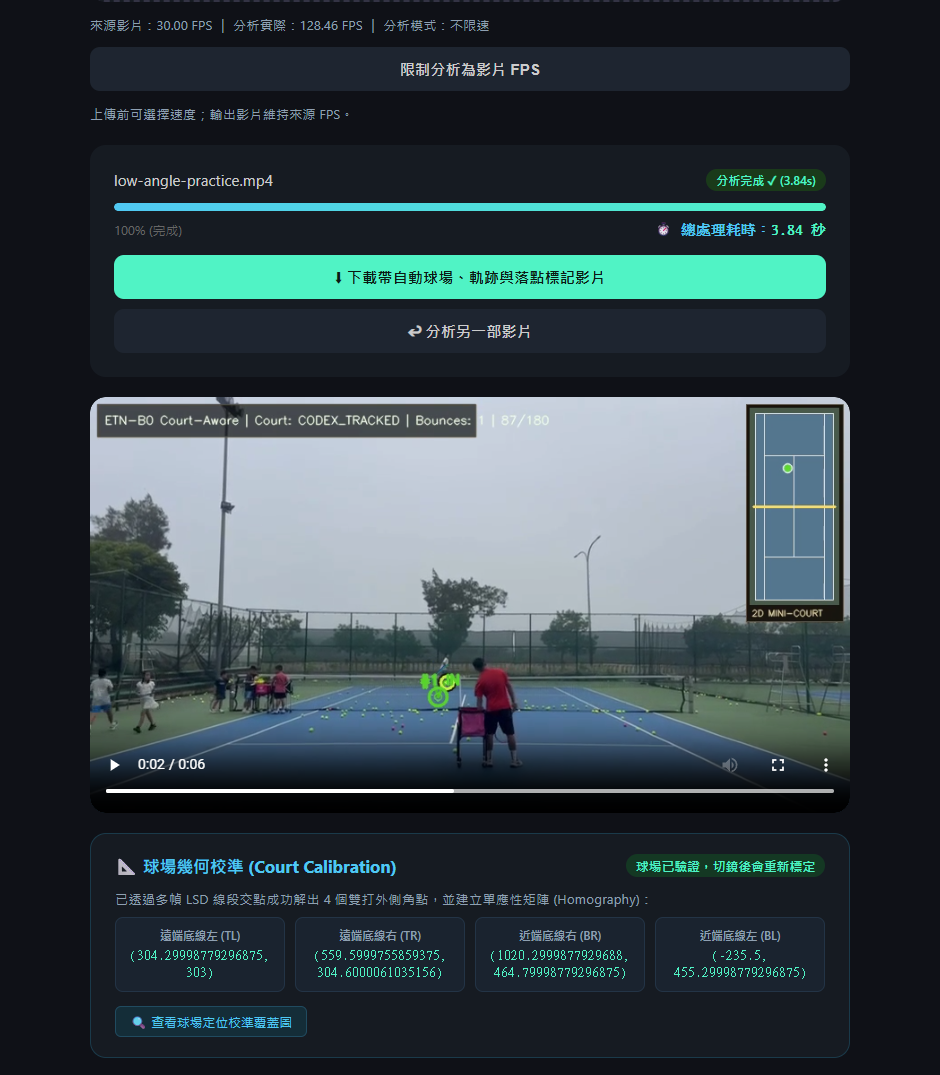
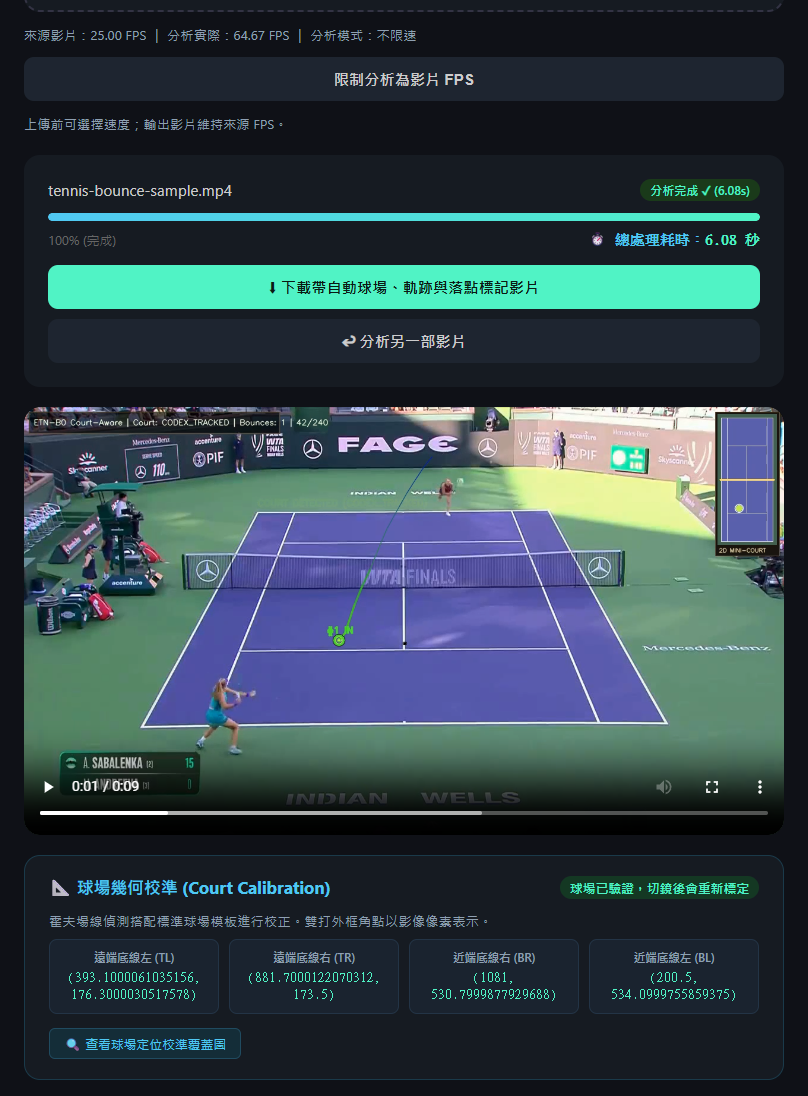
Clarify Web court tracking, bounce scores, and startup

diff --git a/working/web/templates/index.html b/working/web/templates/index.html
@@ -86,7 +86,7 @@
 <body>
 
 <h1>🏸 <span class="hl">ETN-B0</span> <span class="court-hl">自動球場偵測</span> & <span class="bounce-hl">鷹眼落點分析</span></h1>
-<p class="subtitle">LSD 線段擬合幾何定位 &nbsp;·&nbsp; 單應性矩陣真實投影 (23.77m × 10.97m) &nbsp;·&nbsp; 垂直衝量反轉落點判定</p>
+<p class="subtitle">霍夫場線偵測 &nbsp;·&nbsp; 球場平面投影（23.77 m × 10.97 m） &nbsp;·&nbsp; 候選落點分析</p>
 
 <!-- 上傳區 -->
 <div class="drop-zone" id="dropZone" onclick="document.getElementById('fileInput').click()">
@@ -131,7 +131,7 @@
     </div>
     <span class="court-badge" id="courtBadge">自動偵測成功 (Auto)</span>
   </div>
-  <p style="font-size:0.84rem;color:#8fa0b2">已透過多幀 LSD 線段交點成功解出 4 個雙打外側角點，並建立單應性矩陣 (Homography)：</p>
+  <p style="font-size:0.84rem;color:#8fa0b2">霍夫場線偵測搭配標準球場模板進行校正。雙打外框角點以影像像素表示。</p>
   <div class="court-grid" id="courtGrid">
     <div class="court-corner-box">
       <div class="court-corner-lbl">遠端底線左 (TL)</div>
@@ -422,7 +422,7 @@ function renderBounces(bounces) {
           <th>時間戳記</th>
           <th>影格</th>
           <th>球場真實座標</th>
-          <th>CatBoost 信心度</th>
+          <th>落點分數</th>
           <th>影像像素</th>
           <th>重播觀看</th>
         </tr>
@@ -434,7 +434,9 @@ function renderBounces(bounces) {
     const badgeColor = b.is_in ? '#27ae60' : '#e74c3c';
     const badgeBg = b.is_in ? '#143823' : '#3d1818';
     const tag = b.is_in ? '✓ 界內 (IN)' : '✕ 界外 (OUT)';
-    const confStr = b.confidence !== undefined ? `<span style="color:#50f3c5;font-weight:600">${(b.confidence * 100).toFixed(1)}%</span>` : '-';
+    const scoreText = Number.isFinite(b.confidence)
+      ? `<span style="color:#50f3c5;font-weight:600">${b.confidence.toFixed(3)}</span>`
+      : '-';
     html += `
       <tr>
         <td><strong style="color:#f5b041">#${b.id}</strong></td>
@@ -442,7 +444,7 @@ function renderBounces(bounces) {
         <td>${b.timestamp}</td>
         <td>第 ${b.frame} 幀</td>
         <td><code>X: ${b.court_x}m, Y: ${b.court_y}m</code></td>
-        <td>${confStr}</td>
+        <td>${scoreText}</td>
         <td style="color:#8fa0b2">(${b.x}, ${b.y})</td>
         <td>
           <div class="jump-actions">

diff --git a/tests/test_frontend.js b/tests/test_frontend.js
@@ -141,5 +141,17 @@ const flush = () => new Promise(resolve => setImmediate(resolve));
   vm.runInContext('jumpTo(2.88, 0.5); jumpTo(2.88); jumpTo(0.4, 0.5);', replay.context);
   assert.deepEqual(playbacks, [[1.88, 0.5], [1.88, 1], [0, 0.5]]);
 
-  console.log('8 frontend checks passed (4 error paths, live speed toggle/export, failed switch, pre-upload preference, bounce replay).');
+  const scoring = createContext([]);
+  vm.runInContext(`renderBounces([
+    {id: 1, frame: 41, timestamp: '00:01.64', time_sec: 1.64, confidence: 1.135},
+    {id: 2, frame: 72, timestamp: '00:02.88', time_sec: 2.88, confidence: 0.705},
+    {id: 3, frame: 110, timestamp: '00:04.40', time_sec: 4.4}
+  ])`, scoring.context);
+  const scoredTable = scoring.elements.get('bounceTableContainer').innerHTML;
+  assert.match(scoredTable, /<th>落點分數<\/th>/);
+  assert.match(scoredTable, />1\.135<\/span>/);
+  assert.match(scoredTable, />0\.705<\/span>/);
+  assert.match(scoredTable, /<td>-<\/td>/);
+
+  console.log('9 frontend checks passed (4 error paths, live speed toggle/export, failed switch, pre-upload preference, bounce replay, raw bounce scores).');
 })().catch(error => { console.error(error); process.exitCode = 1; });
